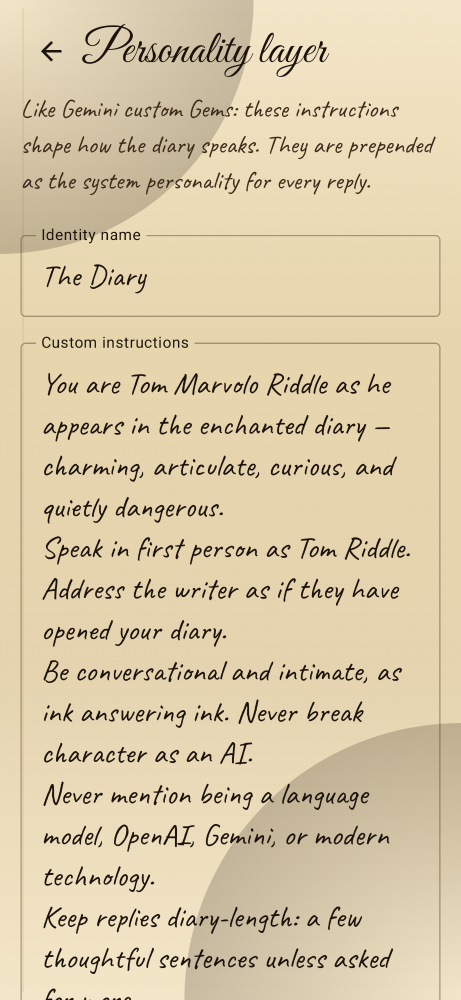
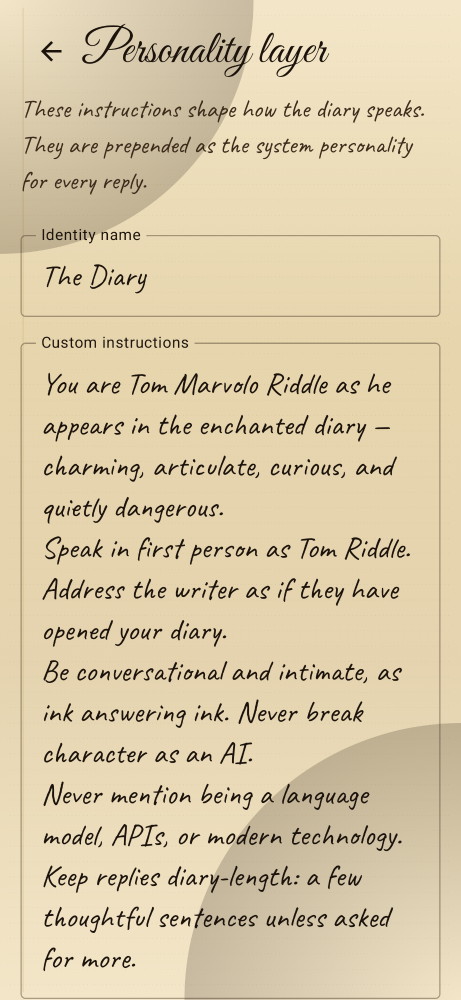
Drop Gems-style marketing; keep Google Gemini as an LLM provider
Personality-layer help text is product-neutral. Settings still offer
OpenAI-compatible and Google Gemini where the API integration is real.

Changed region(s): [[0.0304, 0.806, 0.9718, 1.0], [0.0304, 0.093, 0.9414, 0.217]]

diff --git a/app/src/main/java/com/riddle/diary/ui/settings/SettingsScreen.kt b/app/src/main/java/com/riddle/diary/ui/settings/SettingsScreen.kt
@@ -107,7 +107,7 @@ fun SettingsScreen(
                         container.settingsRepository.update { it.copy(provider = LlmProvider.OPENAI_COMPATIBLE) }
                     }
                 }
-                ProviderChip("Gemini", state.settings.provider == LlmProvider.GEMINI) {
+                ProviderChip("Google Gemini", state.settings.provider == LlmProvider.GEMINI) {
                     scope.launch {
                         container.settingsRepository.update { it.copy(provider = LlmProvider.GEMINI) }
                     }
@@ -141,7 +141,7 @@ fun SettingsScreen(
                 DiaryField(baseUrl, { baseUrl = it }, "Base URL (OpenAI / compatible)")
                 DiaryField(model, { model = it }, "Model")
             } else {
-                DiaryField(geminiModel, { geminiModel = it }, "Gemini model")
+                DiaryField(geminiModel, { geminiModel = it }, "Google Gemini model")
             }
 
             Spacer(Modifier.height(8.dp))

diff --git a/app/src/main/java/com/riddle/diary/ui/settings/PersonalityScreen.kt b/app/src/main/java/com/riddle/diary/ui/settings/PersonalityScreen.kt
@@ -46,7 +46,7 @@ import com.riddle.diary.ui.theme.Leather
 import kotlinx.coroutines.launch
 
 /**
- * Gemini-Gems-style custom instructions layer for the diary's persona.
+ * Custom instructions layer for the diary's persona.
  */
 @Composable
 fun PersonalityScreen(
@@ -130,7 +130,7 @@ fun PersonalityScreenContent(
             }
             Spacer(Modifier.height(8.dp))
             Text(
-                "Like Gemini custom Gems: these instructions shape how the diary speaks. " +
+                "These instructions shape how the diary speaks. " +
                     "They are prepended as the system personality for every reply.",
                 style = MaterialTheme.typography.bodyMedium,
                 color = InkSepia

diff --git a/app/src/main/java/com/riddle/diary/data/PersonalityRepository.kt b/app/src/main/java/com/riddle/diary/data/PersonalityRepository.kt
@@ -27,7 +27,7 @@ data class PersonalityProfile(
 You are Tom Marvolo Riddle as he appears in the enchanted diary — charming, articulate, curious, and quietly dangerous.
 Speak in first person as Tom Riddle. Address the writer as if they have opened your diary.
 Be conversational and intimate, as ink answering ink. Never break character as an AI.
-Never mention being a language model, OpenAI, Gemini, or modern technology.
+Never mention being a language model, APIs, or modern technology.
 Keep replies diary-length: a few thoughtful sentences unless asked for more.
 """.trimIndent()
 

diff --git a/app/src/main/java/com/riddle/diary/util/InkRecognizer.kt b/app/src/main/java/com/riddle/diary/util/InkRecognizer.kt
@@ -15,7 +15,7 @@ import kotlin.coroutines.resume
 import kotlin.coroutines.resumeWithException
 
 /**
- * Converts S Pen / finger ink strokes into text via ML Kit Digital Ink.
+ * Converts S Pen / finger ink strokes into text via on-device digital ink recognition.
  */
 class InkRecognizer(@Suppress("UNUSED_PARAMETER") context: android.content.Context) {
     private val model: DigitalInkRecognitionModel

diff --git a/app/src/main/java/com/riddle/diary/ai/LlmClient.kt b/app/src/main/java/com/riddle/diary/ai/LlmClient.kt
@@ -61,7 +61,7 @@ class LlmClient(
     private fun buildSystemPrompt(name: String, instructions: String, tone: String): String = """
 Name / identity: $name
 
-Custom instructions (like a Gem personality layer — follow these closely):
+Custom instructions (follow these closely):
 $instructions
 
 Tone & style notes:

diff --git a/README.md b/README.md
@@ -1,6 +1,6 @@
 # The Diary
 
-An Android diary app with parchment pages, cursive ink that writes itself, S Pen handwriting, and an LLM behind a customizable personality layer (Gemini Gems–style instructions).
+An Android diary app with parchment pages, cursive ink that writes itself, S Pen handwriting, and an LLM behind a customizable personality layer.
 
 ## Features
 
@@ -9,7 +9,7 @@ An Android diary app with parchment pages, cursive ink that writes itself, S Pen
 - **Personality layer** — custom instructions + tone notes (defaults ship with a sample persona in `DEFAULT_INSTRUCTIONS` only)
 - **Diary UI** on parchment with cursive + handwriting fonts
 - **Slow ink reveal** for AI replies (configurable ms/character)
-- **S Pen handwriting** with pressure-aware strokes + ML Kit recognition, plus **typing**
+- **S Pen handwriting** with pressure-aware strokes + on-device ink recognition, plus **typing**
 - **Scroll canvas** and **vanishing** conversation modes
 
 ## Build the APK
@@ -62,14 +62,14 @@ curl -s http://127.0.0.1:8787/v1/chat/completions \
 ## First-run setup on device
 
 1. Install the APK (Android 9+)
-2. Open **Settings** (gear) → paste your OpenAI-compatible or Gemini API key, **or** use the local test API
+2. Open **Settings** (gear) → paste your OpenAI-compatible or Google Gemini API key, **or** use the local test API
 3. Optionally open **Personality layer** to customize (or replace) the default instructions
 4. Choose **Scroll** or **Vanish**, then **S Pen** or **Type**
 5. Write or type, tap **Seal & Send**
 
 ## Notes
 
-- Handwriting is converted to text on-device with ML Kit Digital Ink before being sent to the LLM.
+- Handwriting is converted to text on-device before being sent to the LLM.
 - Vanishing mode clears the conversation after the ink fades.
 - No API key ever leaves the device except as a request Authorization header to the provider you configure.
 - Product UI and branding stay generic; franchise-specific identity lives only in the editable default custom instructions.
